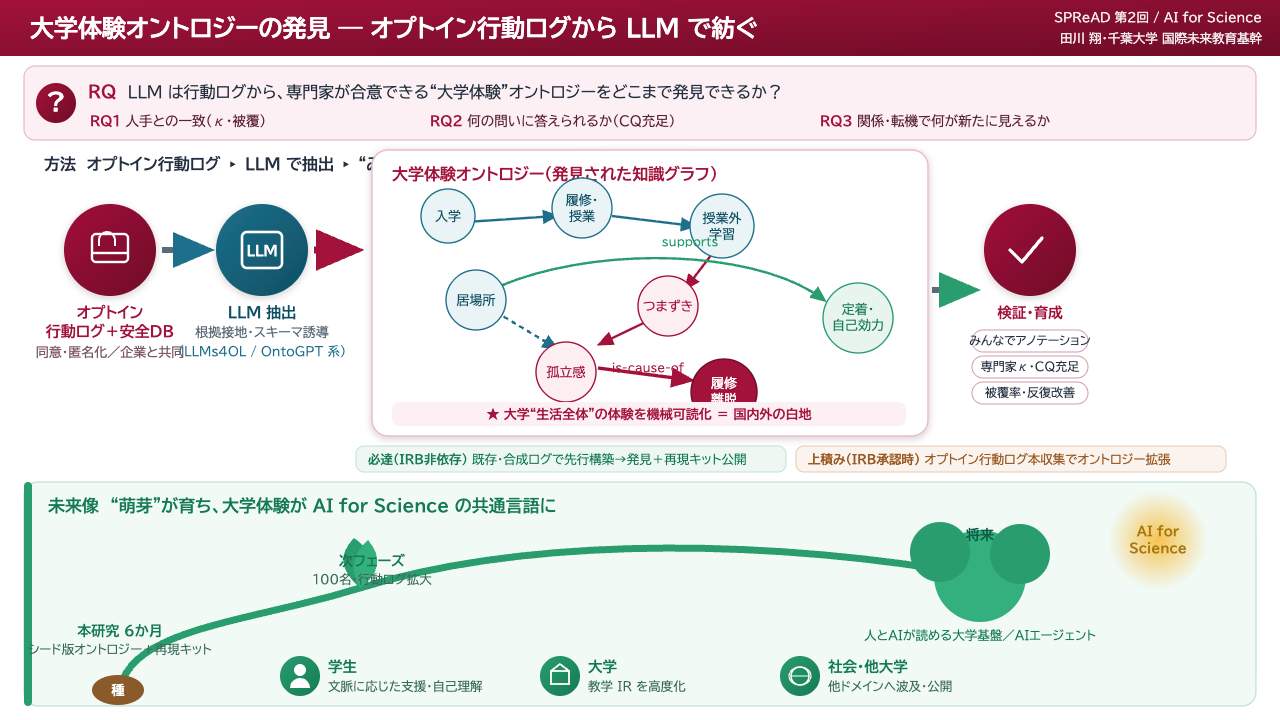
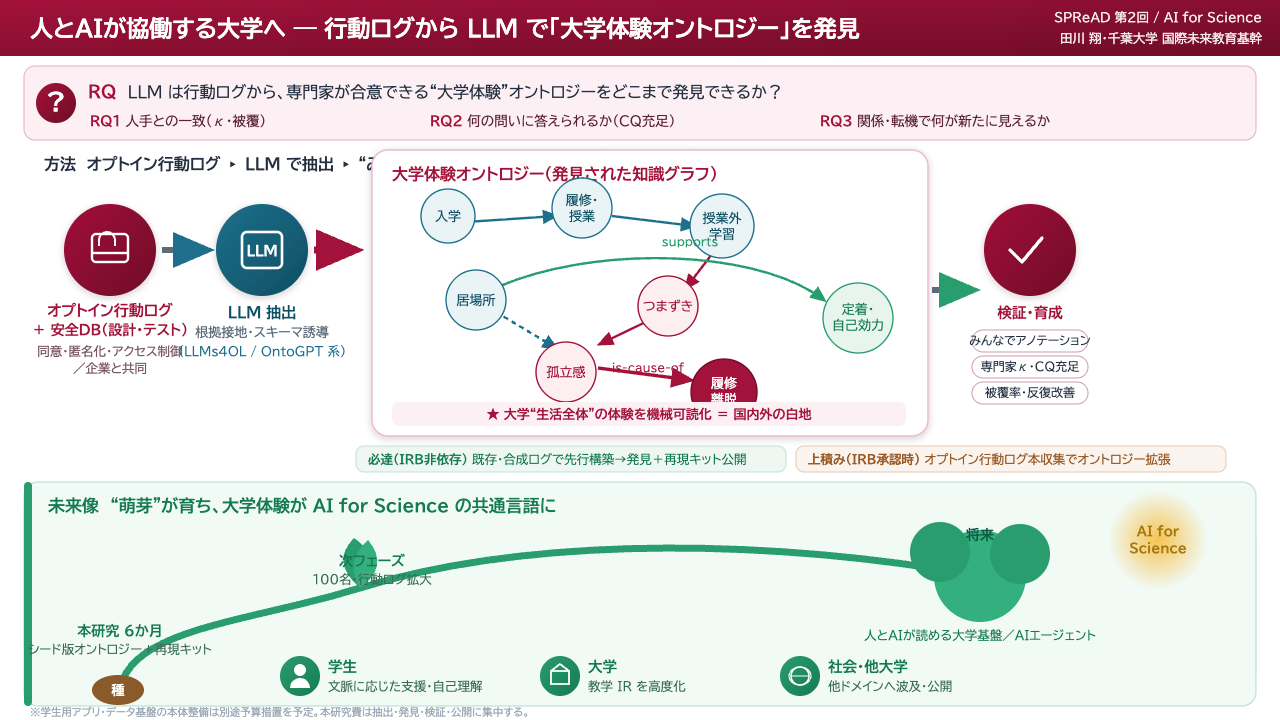
SPread

Changed region(s): [[0.0312, 0.0, 0.6875, 0.0611], [0.0312, 0.3972, 0.1562, 0.5194], [0.0312, 0.9778, 0.4062, 1.0]]

diff --git a/theme/academic.css b/theme/academic.css
@@ -383,16 +383,27 @@ section.fig:has(.takeaway) .fig-area {
 /* 見出し(h2/h3)と .takeaway は .body の外に置く＝固定アンカー。   */
 /* 数値(px)で各スライドを微調整しない。配分はこの仕組みに任せる。   */
 /* ============================================================ */
-section .body {
+section .body,
+section.summary .sections {
   flex: 1 1 auto;
   min-height: 0;
   display: flex;
   flex-direction: column;
   justify-content: flex-start;   /* 既定は上詰め */
 }
-.body.vtop,    section.vtop    .body { justify-content: flex-start; }
-.body.vcenter, section.vcenter .body { justify-content: center; }
-.body.vspread, section.vspread .body { justify-content: space-between; }
+.body.vtop,    section.vtop    .body, section.vtop    .sections { justify-content: flex-start; }
+.body.vcenter, section.vcenter .body, section.vcenter .sections { justify-content: center; }
+.body.vspread, section.vspread .body, section.vspread .sections { justify-content: space-between; }
+/* split は2カラム：縦中央は列を align-items で中央寄せ（高特異度で既定の start を上書き） */
+section.split.vcenter .split-body { align-items: center; }
+
+/* ---- 横並び：等幅・等高の列（兄弟ブロックの幅・高さを揃える） ---------- */
+/* <div class="cols"><div>…</div><div>…</div></div> を使う。               */
+/* 列は等幅(flex:1 1 0)・等高(align-items:stretch)。上揃えは .cols.top。   */
+/* インラインの display:flex / flex:1 を1枚ずつ書かず、これで揃える。       */
+.cols { display: flex; gap: 24px; align-items: stretch; margin: 8px 0; }
+.cols > * { flex: 1 1 0; min-width: 0; }
+.cols.top { align-items: flex-start; }
 
 /* ============================================================ */
 /* SLIDE PATTERN CLASSES                                        */

diff --git a/instruction-meta-analysis-review.md b/instruction-meta-analysis-review.md
@@ -1,0 +1,105 @@
+# 大量指示ログのメタ分析は、どこまで有効か — 実施レビュー
+
+**実施日**：2026-06-30 ／ **対象**：marp-ChibaU への過去の指示（Claude Codeチャット履歴）と実デッキ・git履歴
+**目的**：「自分が大量に出した指示」を分析して、最初から良いデザイン・表現になるよう CLAUDE.md / skill / CSS を直す
+
+> この文書は「分析の結果」ではなく、**分析という手法自体がどれくらい使えるか**の振り返りです。
+> 結果そのものは別途 [marp実運用デザイン実態のメモリ] と CLAUDE.md/skill/CSS の差分を参照。
+
+---
+
+## 0. 結論（先に一言）
+
+**うまくいく。ただし「条件付き」**。
+支配的な傾向・構造的な問題・繰り返す失敗の抽出には**非常に強い**。一方で「ユーザーの好み」「具体的な数値」を当てるのは**そのままでは危なく**、数値での裏取り・敵対的検証・実物確認を重ねて初めて信頼できる。
+今回はその工程を踏んだので、**検証可能な改善（適用＋レンダリング確認済）にまで落ちた**。
+
+---
+
+## 1. 何をやったか（方法）
+
+| 項目 | 規模 |
+|---|---|
+| 指示ログ | 229MB のチャット履歴(29セッション) → **タイプされた指示だけ 324件・約25kトークンに抽出** |
+| git | 69コミットの設計進化（CSS・CLAUDE.md の差分） |
+| 実デッキ | 直近 36デッキ（全132デックから）を1デック1エージェントで指紋採取 |
+| エージェント | **計56体**（採掘5レンズ＋デッキ census 43＋統合・推奨・敵対的検証） |
+| 人手の裏取り | 主要主張は私が直接 grep・レンダリングで再確認 |
+
+工程：**抽出 → 多レンズ採掘 → 統合 → 改訂案 → 敵対的検証 → 人手で再検証 → 適用 → レンダリング目視**。
+
+---
+
+## 2. どれくらい「効いた」か（成果の証拠）
+
+メタ分析が空論で終わらなかった証拠：
+
+- **検証可能な改善に落ちた**：運用ルール（必須レンダリング確認・出典裏取り 等）、CSS正本の1本化、実態テーマ chiba-deck の文書化、受容デフォルトのCSS化、縦横の配分システムを実装し、**レンダリング目視で退行なしを確認**。
+- **潜在バグを発見**：スキルCSSの3コピー乖離（home コピーが `--header-h:50px` で**56pxロック違反**）。これは指示ログには一切出てこない、静かな事故源だった。
+- **「最初から良くなる」方向に直結**：「大きく」「上下中央に」「全幅下線に」等の頻出指示の多くが、既定値・1語クラスで不要化。
+
+---
+
+## 3. 強かったところ
+
+1. **支配的カテゴリの特定**：最頻指示は 画像/ロゴ差替31・ビルド27・拡大25(縮小7)・takeaway文言25・位置23…（私が直接カウント）。体感でなく**実数で順位づけ**できる。
+2. **単一指示では見えない構造的発見**：実運用の基盤テーマが `academic` でなく **`chiba-deck`（109 vs 29デック・私が直接確認）**、表紙は `cover-hero`（164 vs 8）。「1個1個の指示」を見ても絶対に出てこない、**全体を集計して初めて分かる**事実。
+3. **繰り返す失敗モードの抽出**：「直したのに反映されてない」が最コスト、根因は「描画を見ずdiffで完了報告」。逐語証拠が複数セッションに散在。
+4. **ドリフト・不整合の検出**：CSSコピーの乖離、ドキュメント内の不整合（本文23px vs 24px）。
+5. **敵対的検証が実際に効いた**：下記4の罠を機械的に弾いた。
+
+---
+
+## 4. 弱かった／危なかったところ（ここが本題）
+
+### ⚠ 最大の罠：「出現回数」を「好み」と取り違える
+デッキ横断のCSS出現回数（例：`pip-safe` 2382回、`font-weight:800` 5231回、`font-size` 上書き 16,719回、`--hdr-left-w:21%` が132デック ※いずれもエージェント集計値）は、**ユーザーが望んだ証拠ではなく、Claude自身が生成した定型（ボイラープレート）の証拠**であることが多い。
+実際、敵対的検証エージェントは「これらは生成定型由来。タイプされた指示ログには pip/ワイプの言及ゼロ、hex三点の指定ゼロ」と指摘し、いくつかの推奨を `grounded=false` に落とした。
+
+→ **教訓：証拠には2層あり、信頼度が違う**。
+- **「意図」の証拠**＝ユーザーが*タイプした*指示ログ（高信頼）
+- **「状態」の証拠**＝出荷されたCSS・デッキ（de-facto実態には高信頼だが、*意図*の証拠としては低信頼。中身の多くは自動生成）
+
+### その他の弱点
+- **頻度の体感バンドが甘い**：エージェントの「very_high/high」は主観。**grepの実数で裏取り必須**。
+- **値を「それっぽく」捏造する**：teal/navy の `-dark`/`-soft` 等、実在しない中間値を補完していた。
+- **文脈の欠落**：「もう少し右に」「これに変えて」はログに残るが、*何を見て*そう言ったか（対象画像・崩れ）は残らない。意図推定は半分しかできない。
+- **サンプル選択バイアス**：直近36デッキ中心。古いデッキは別傾向（accentの既定色など）。
+- **一回限り vs 定着**の区別が、検証なしには付かない。
+
+---
+
+## 5. 知見タイプ別の信頼度ルーブリック
+
+| 知見のタイプ | そのままの信頼度 | 必要な裏取り |
+|---|---|---|
+| 支配カテゴリ・頻度順位 | **高** | grep実数（容易） |
+| 構造・テーマ・ドリフト | **高** | 直接 grep / ファイル確認 |
+| 繰り返す失敗モード | 中〜高 | 逐語の複数事例 |
+| 個別のデザイン値・「好み」 | 低〜中 | 逐語 or レンダリング |
+| **出現回数由来の「好み」** | **低** | 既定変更は逐語の実需要がある時だけ |
+
+---
+
+## 6. うまくいかせるための条件（再現レシピ）
+
+1. **まず抽出**：生ログ229MBは扱えない。タイプ指示だけ抜き出し25kトークンに（前処理が成否を分ける）。
+2. **多レンズ＋敵対的検証**：採掘は角度を変えて並列、最後に「証拠が薄い推奨を refute する」批評役を必ず置く。
+3. **数値で裏取り**：体感バンドは grep の実数で上書き。
+4. **「意図」と「状態」を分離**：タイプ指示＝好みの正本、出荷物＝実態の正本。混同しない。
+5. **load-bearing な主張は人手で再検証**：今回 chiba-deck 基盤説・CSSドリフトは私が直接 grep。
+6. **既定値の変更は逐語の実需要がある時だけ**：出現回数だけでデフォルトを変えない（既存デックを壊す）。
+7. **適用後は必ずレンダリングして目視**：CSSは静的に正しくても見た目で確認するまで「完了」としない。
+
+---
+
+## 7. このリポジトリでの総合評価
+
+| 観点 | 評価 |
+|---|---|
+| 支配傾向・構造・失敗モードの抽出 | **A**（実数・実物で裏取りでき、確度が高い） |
+| 受容デザイン・具体値の特定 | **B**（検証を重ねれば信頼できる。生のままはB-） |
+| 出現回数を根拠にした「好み」推定 | **C**（要注意。敵対的検証で弾く前提） |
+| 改善への落とし込み（適用・検証込み） | **A**（検証可能な変更と潜在バグ発見に到達） |
+
+**総括**：大量指示のメタ分析は、「何が多いか・何が壊れているか・何を繰り返し直しているか」を掴むのに**極めて有効**。ただし出力をそのまま信じると「自動生成の定型」を「あなたの好み」と取り違える。**数値の裏取り・敵対的検証・実物確認**という安全装置を付ければ、**確度高く“最初から良くする”改善に変換できる**——今回はそれが実証できた。

diff --git a/ponchi-e/20260624_ND_spread-ontology/spread-simple.md b/ponchi-e/20260624_ND_spread-ontology/spread-simple.md
@@ -1,0 +1,96 @@
+---
+marp: true
+theme: ponchie
+paginate: false
+size: 16:9
+header: ''
+footer: ''
+html: true
+---
+
+<!-- _class: onepager -->
+
+<svg viewBox="0 0 1280 720" xmlns="http://www.w3.org/2000/svg" font-family="'Hiragino Sans','Hiragino Kaku Gothic ProN','Yu Gothic',sans-serif">
+  <defs>
+    <linearGradient id="gCrim" x1="0" y1="0" x2="1" y2="1"><stop offset="0" stop-color="#a3123a"/><stop offset="1" stop-color="#6f0c27"/></linearGradient>
+    <linearGradient id="gTeal" x1="0" y1="0" x2="1" y2="1"><stop offset="0" stop-color="#1d6f8b"/><stop offset="1" stop-color="#0e4f63"/></linearGradient>
+    <linearGradient id="gGray" x1="0" y1="0" x2="1" y2="1"><stop offset="0" stop-color="#5b6b78"/><stop offset="1" stop-color="#3d4a55"/></linearGradient>
+    <filter id="sh" x="-20%" y="-20%" width="140%" height="140%"><feDropShadow dx="0" dy="2" stdDeviation="3.5" flood-color="#3a2530" flood-opacity="0.2"/></filter>
+    <marker id="aR" markerWidth="7" markerHeight="7" refX="5.5" refY="3" orient="auto"><path d="M0 0 L7 3 L0 6 Z" fill="#a3123a"/></marker>
+    <marker id="aG" markerWidth="7" markerHeight="7" refX="5.5" refY="3" orient="auto"><path d="M0 0 L7 3 L0 6 Z" fill="#2a9d6f"/></marker>
+  </defs>
+  <rect width="1280" height="720" fill="#ffffff"/>
+  <text x="40" y="66" font-size="27" font-weight="700" fill="#a3123a">研究プロセスと AI の適用箇所</text>
+  <rect x="40" y="76" width="360" height="4" rx="2" fill="#a3123a"/>
+  <rect x="978" y="44" width="262" height="30" rx="15" fill="#eaf3f6" stroke="#1d6f8b"/>
+  <rect x="992" y="52" width="16" height="14" rx="3" fill="url(#gTeal)"/>
+  <text x="1016" y="64" font-size="14" font-weight="700" fill="#0e4f63">＝ AI（LLM）を適用する工程</text>
+  <!-- chevrons -->
+  <polygon points="326,250 352,250 366,268 352,286 326,286 340,268" fill="#c7ccd2"/>
+  <polygon points="646,250 672,250 686,268 672,286 646,286 660,268" fill="#c7ccd2"/>
+  <polygon points="966,250 992,250 1006,268 992,286 966,286 980,268" fill="#c7ccd2"/>
+  <!-- Card 1 データ -->
+  <rect x="40" y="130" width="286" height="280" rx="14" fill="#ffffff" stroke="#d7dde3" stroke-width="1.3" filter="url(#sh)"/>
+  <rect x="40" y="130" width="286" height="46" rx="14" fill="url(#gGray)"/>
+  <text x="62" y="160" font-size="18" font-weight="700" fill="#ffffff">① データ</text>
+  <g font-size="14.5" fill="#33414f">
+    <text x="62" y="212">オプトインされた</text>
+    <text x="62" y="236">学生の行動ログ</text>
+    <text x="62" y="260" font-size="13" fill="#5b6b78">（学習支援機会への</text>
+    <text x="62" y="279" font-size="13" fill="#5b6b78">参加・検索 等）</text>
+    <text x="62" y="312">＋ 安全なオプトインDB</text>
+    <text x="62" y="336" font-size="13" fill="#5b6b78">同意・匿名化・</text>
+    <text x="62" y="355" font-size="13" fill="#5b6b78">アクセス制御</text>
+  </g>
+  <text x="62" y="392" font-size="11.5" fill="#8a949e">※アプリ本体は別途予算で整備</text>
+  <!-- Card 2 LLM抽出 (AI) -->
+  <rect x="360" y="130" width="286" height="280" rx="14" fill="#ffffff" stroke="#bcd6df" stroke-width="1.6" filter="url(#sh)"/>
+  <rect x="360" y="130" width="286" height="46" rx="14" fill="url(#gTeal)"/>
+  <text x="382" y="160" font-size="18" font-weight="700" fill="#ffffff">② LLM で抽出</text>
+  <rect x="576" y="140" width="52" height="26" rx="13" fill="#ffffff" opacity="0.95"/><text x="602" y="158" font-size="13" font-weight="700" fill="#0e4f63" text-anchor="middle">AI</text>
+  <g font-size="14.5" fill="#33414f">
+    <text x="382" y="214">構造化出力で</text>
+    <text x="382" y="238">〈概念・関係・根拠〉</text>
+    <text x="382" y="262">を半自動で抽出</text>
+    <text x="382" y="300">自己整合性で検証し、</text>
+    <text x="382" y="324">出典ログに根拠を接地</text>
+    <text x="382" y="360" font-size="12.5" fill="#1d6f8b">機微データはローカルで匿名化</text>
+  </g>
+  <!-- Card 3 オントロジー -->
+  <rect x="680" y="130" width="286" height="280" rx="14" fill="#ffffff" stroke="#e7bccb" stroke-width="1.6" filter="url(#sh)"/>
+  <rect x="680" y="130" width="286" height="46" rx="14" fill="url(#gCrim)"/>
+  <text x="702" y="160" font-size="17" font-weight="700" fill="#ffffff">③ 大学体験オントロジー</text>
+  <text x="702" y="198" font-size="13.5" fill="#33414f">発見される知識グラフ（OWL）</text>
+  <g font-size="12.5" text-anchor="middle">
+    <circle cx="740" cy="248" r="26" fill="#fdeef2" stroke="#a3123a"/><text x="740" y="252" fill="#a3123a">孤立感</text>
+    <line x1="766" y1="255" x2="812" y2="272" stroke="#a3123a" stroke-width="2" marker-end="url(#aR)"/>
+    <circle cx="852" cy="284" r="28" fill="#a3123a" stroke="#6f0c27"/><text x="852" y="281" fill="#fff">履修</text><text x="852" y="296" fill="#fff">離脱</text>
+    <circle cx="742" cy="330" r="26" fill="#eaf3f6" stroke="#1d6f8b"/><text x="742" y="334" fill="#0e4f63">居場所</text>
+    <line x1="768" y1="330" x2="818" y2="330" stroke="#2a9d6f" stroke-width="2" marker-end="url(#aG)"/>
+    <circle cx="864" cy="330" r="30" fill="#e7f5ee" stroke="#2a9d6f"/><text x="864" y="326" fill="#147a52">定着・</text><text x="864" y="341" fill="#147a52">自己効力</text>
+  </g>
+  <text x="702" y="392" font-size="11.5" fill="#8a6b74">行動の関係・転機を機械可読化</text>
+  <!-- Card 4 検証 (人+AI) -->
+  <rect x="1000" y="130" width="240" height="280" rx="14" fill="#ffffff" stroke="#d7dde3" stroke-width="1.3" filter="url(#sh)"/>
+  <rect x="1000" y="130" width="240" height="46" rx="14" fill="url(#gCrim)"/>
+  <text x="1020" y="160" font-size="18" font-weight="700" fill="#ffffff">④ 検証・育成</text>
+  <rect x="1150" y="140" width="80" height="26" rx="13" fill="#ffffff" opacity="0.95"/><text x="1190" y="158" font-size="12.5" font-weight="700" fill="#a3123a" text-anchor="middle">人＋AI</text>
+  <g font-size="14.5" fill="#33414f">
+    <text x="1020" y="214">教員＋RA が</text>
+    <text x="1020" y="238">アノテーション</text>
+    <text x="1020" y="276">アノテーター間一致</text>
+    <text x="1020" y="300">で品質を確認</text>
+    <text x="1020" y="338">反復的に改善</text>
+  </g>
+  <!-- bottom flow -->
+  <rect x="40" y="470" width="1200" height="150" rx="14" fill="#f7f8fa" stroke="#d7dde3"/>
+  <text x="60" y="505" font-size="16" font-weight="700" fill="#243040">研究期間後の展開</text>
+  <rect x="60" y="524" width="470" height="70" rx="12" fill="#ffffff" stroke="#bfe2d6"/>
+  <text x="80" y="552" font-size="15.5" font-weight="700" fill="#147a52">研究期間後：A/B テストで有用性を検証</text>
+  <text x="80" y="576" font-size="13" fill="#3a6b56">本オントロジーを用いたAIの支援 vs 従来手法</text>
+  <polygon points="548,559 588,545 588,573" fill="#2a9d6f"/>
+  <rect x="606" y="524" width="614" height="70" rx="12" fill="#f1faf5" stroke="#bfe2d6"/>
+  <text x="626" y="552" font-size="15.5" font-weight="700" fill="#0f5a44">将来：人と AI が協働する大学</text>
+  <text x="626" y="576" font-size="13" fill="#3a6b56">AIが「大学体験」を共通言語として読み、文脈に応じた学習支援を生成</text>
+  <text x="40" y="660" font-size="12.5" fill="#8a949e">図　研究プロセス（①→④）とAIの適用箇所。②はLLMによる抽出、④はAIを補助に人が検証する工程。</text>
+</svg>

diff --git a/ponchi-e/20260624_ND_spread-ontology/20260624_ND_spread-ontology.md b/ponchi-e/20260624_ND_spread-ontology/20260624_ND_spread-ontology.md
@@ -24,7 +24,7 @@ html: true
   </defs>
   <rect width="1280" height="720" fill="#ffffff"/>
   <rect x="0" y="0" width="1280" height="56" fill="url(#gCrim)"/>
-  <text x="30" y="37" font-size="24" font-weight="700" fill="#ffffff">大学体験オントロジーの発見 ― オプトイン行動ログから LLM で紡ぐ</text>
+  <text x="30" y="37" font-size="23" font-weight="700" fill="#ffffff">人とAIが協働する大学へ ― 行動ログから LLM で「大学体験オントロジー」を発見</text>
   <text x="1262" y="22" font-size="12.5" fill="#ffffff" opacity="0.92" text-anchor="end">SPReAD 第2回 / AI for Science</text>
   <text x="1262" y="43" font-size="12.5" fill="#ffffff" opacity="0.92" text-anchor="end">田川 翔・千葉大学 国際未来教育基幹</text>
   <rect x="24" y="66" width="1232" height="74" rx="11" fill="#fdf0f4" stroke="#e7bccb" stroke-width="1.3"/>
@@ -38,9 +38,10 @@ html: true
   <text x="44" y="170" font-size="16" font-weight="700" fill="#243040">方法　オプトイン行動ログ ▸ LLM で抽出 ▸ “みんなでアノテーション”＋専門家で検証・育成</text>
   <circle cx="110" cy="250" r="46" fill="url(#gCrim)" filter="url(#sh)"/>
   <rect x="92" y="234" width="36" height="28" rx="4" fill="none" stroke="#fff" stroke-width="2.4"/><line x1="92" y1="253" x2="128" y2="253" stroke="#fff" stroke-width="2.4"/><path d="M99 246 v-6 a8 8 0 0 1 16 0 v6" fill="none" stroke="#fff" stroke-width="2"/>
-  <text x="110" y="318" font-size="15" font-weight="700" fill="#a3123a" text-anchor="middle">オプトイン</text>
-  <text x="110" y="337" font-size="15" font-weight="700" fill="#a3123a" text-anchor="middle">行動ログ＋安全DB</text>
-  <text x="110" y="357" font-size="13" fill="#7a5763" text-anchor="middle">同意・匿名化／企業と共同</text>
+  <text x="110" y="316" font-size="15" font-weight="700" fill="#a3123a" text-anchor="middle">オプトイン行動ログ</text>
+  <text x="110" y="335" font-size="14" font-weight="700" fill="#a3123a" text-anchor="middle">＋ 安全DB（設計・テスト）</text>
+  <text x="110" y="356" font-size="12.5" fill="#7a5763" text-anchor="middle">同意・匿名化・アクセス制御</text>
+  <text x="110" y="373" font-size="12.5" fill="#7a5763" text-anchor="middle">／企業と共同</text>
   <path d="M162 250 h44" fill="none" stroke="#5b6b78" stroke-width="6" marker-end="url(#aT)"/>
   <circle cx="262" cy="250" r="46" fill="url(#gTeal)" filter="url(#sh)"/>
   <rect x="242" y="232" width="40" height="36" rx="5" fill="none" stroke="#fff" stroke-width="2.6"/><text x="262" y="256" font-size="14" font-weight="700" fill="#fff" text-anchor="middle">LLM</text>
@@ -104,4 +105,5 @@ html: true
   <text x="588" y="672" font-size="14.5" font-weight="700" fill="#147a52">大学</text><text x="588" y="691" font-size="12.5" fill="#3a6b56">教学 IR を高度化</text>
   <circle cx="800" cy="676" r="20" fill="url(#gGreen)"/><circle cx="800" cy="676" r="9" fill="none" stroke="#fff" stroke-width="1.6"/><path d="M791 676 h18 M800 667 a11 9 0 0 0 0 18 a11 9 0 0 0 0 -18" fill="none" stroke="#fff" stroke-width="1.2"/>
   <text x="828" y="672" font-size="14.5" font-weight="700" fill="#147a52">社会・他大学</text><text x="828" y="691" font-size="12.5" fill="#3a6b56">他ドメインへ波及・公開</text>
+  <text x="30" y="716" font-size="10.5" fill="#9aa7b2">※学生用アプリ・データ基盤の本体整備は別途予算措置を予定。本研究費は抽出・発見・検証・公開に集中する。</text>
 </svg>

diff --git a/.claude/skills/marp-academic-slides/references/patterns.md b/.claude/skills/marp-academic-slides/references/patterns.md
@@ -14,6 +14,50 @@
 
 cover / divider / message / qa はヘッダー帯を表示しないので page-title も書かない（書いても表示されない）。
 
+## 縦配分と横並び（全パターン共通の整え方）
+
+位置の微調整を **px で1枚ずつ書かない**。次の2つで「アンカー固定・中身だけ再配置」する。
+
+### 縦：見出し/takeaway を固定し、間を配分
+
+見出し(`##`)と `<div class="takeaway">` は固定アンカー。その「間」を `<div class="body">…</div>` で囲み、配分はクラスで選ぶ。takeaway が無くても下端まで同じ。
+
+| 書き方 | 挙動 |
+|---|---|
+| （無指定） | 上詰め |
+| `<!-- _class: vcenter -->` | 間を上下中央 |
+| `<!-- _class: vspread -->` | 上下に均等配分 |
+
+```markdown
+<!-- _class: vcenter -->
+<div class="page-title">…</div>
+
+## 見出し（固定）
+
+<div class="body">
+
+- 内容（ここだけ再配置される）
+
+</div>
+
+<div class="takeaway">要点（固定）</div>
+```
+
+`summary` は `.sections`、`split` は `.split-body` がそのまま「間」として効くので、`<!-- _class: summary vcenter -->` のようにクラスを足すだけでよい（`.body` で包む必要はない）。
+
+### 横：等幅・等高の列
+
+兄弟ブロックの幅・高さを揃えるときは `<div class="cols">` で囲む（インラインの `display:flex; flex:1` を1枚ずつ書かない）。
+
+```markdown
+<div class="cols">
+<div class="box-info">左：自動で等幅・等高</div>
+<div class="box-accent">右：内容が長くても高さが揃う</div>
+</div>
+```
+
+上揃えにしたいときだけ `<div class="cols top">`。
+
 ## パターン一覧
 
 | # | クラス | 用途 |

diff --git a/CLAUDE.md b/CLAUDE.md
@@ -113,7 +113,8 @@ footer: ''
 | `<div class="qa-grid">…</div>` | 質問/回答の2列レイアウト(偶奇で交互配置) |
 | `<div class="takeaway">要点</div>` | スライド下端固定の要点帯(28px固定) |
 | `<div class="body">…</div>` | 見出しとtakeawayの「間」を囲む本文ゾーン。残りの縦スペースを埋める |
-| `<!-- _class: vcenter \| vspread \| vtop -->` | `.body`ゾーンの縦配分(中央/均等/上詰め)。タイトル・takeawayは動かさない |
+| `<!-- _class: vcenter \| vspread \| vtop -->` | `.body`ゾーンの縦配分(中央/均等/上詰め)。タイトル・takeawayは動かさない。`summary`は`.sections`、`split`は`.split-body`に効く |
+| `<div class="cols">…</div>` | 横並びの列を等幅・等高に揃える(上揃えは `cols top`) |
 
 上表は `academic` 基本テーマのクラス。**`theme: chiba-deck` のときは以下の部品が主力**（実デッキでの使用頻度が高い順）：
 
